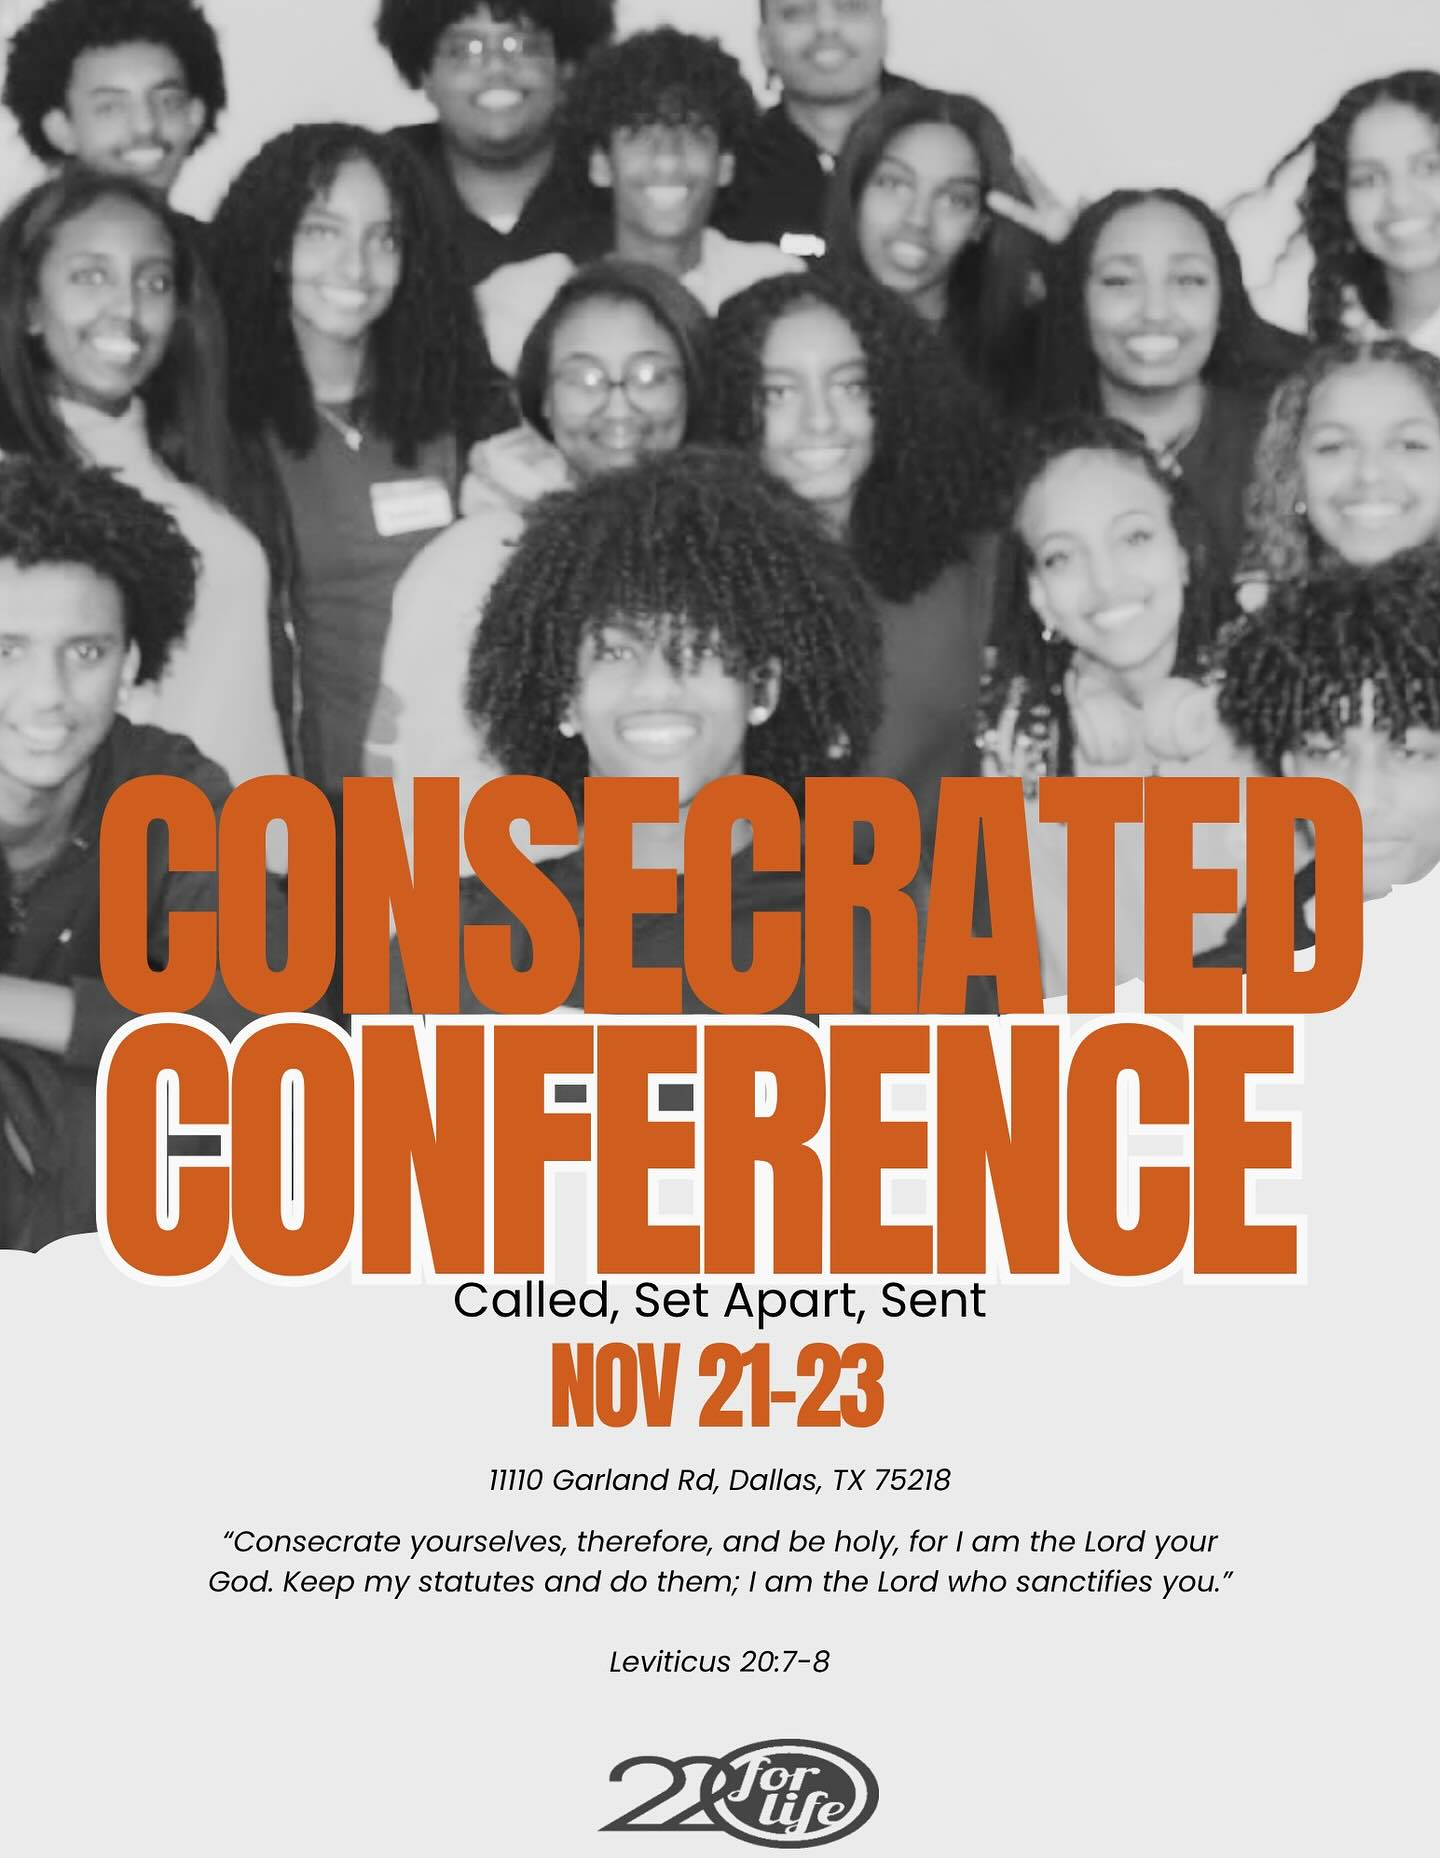
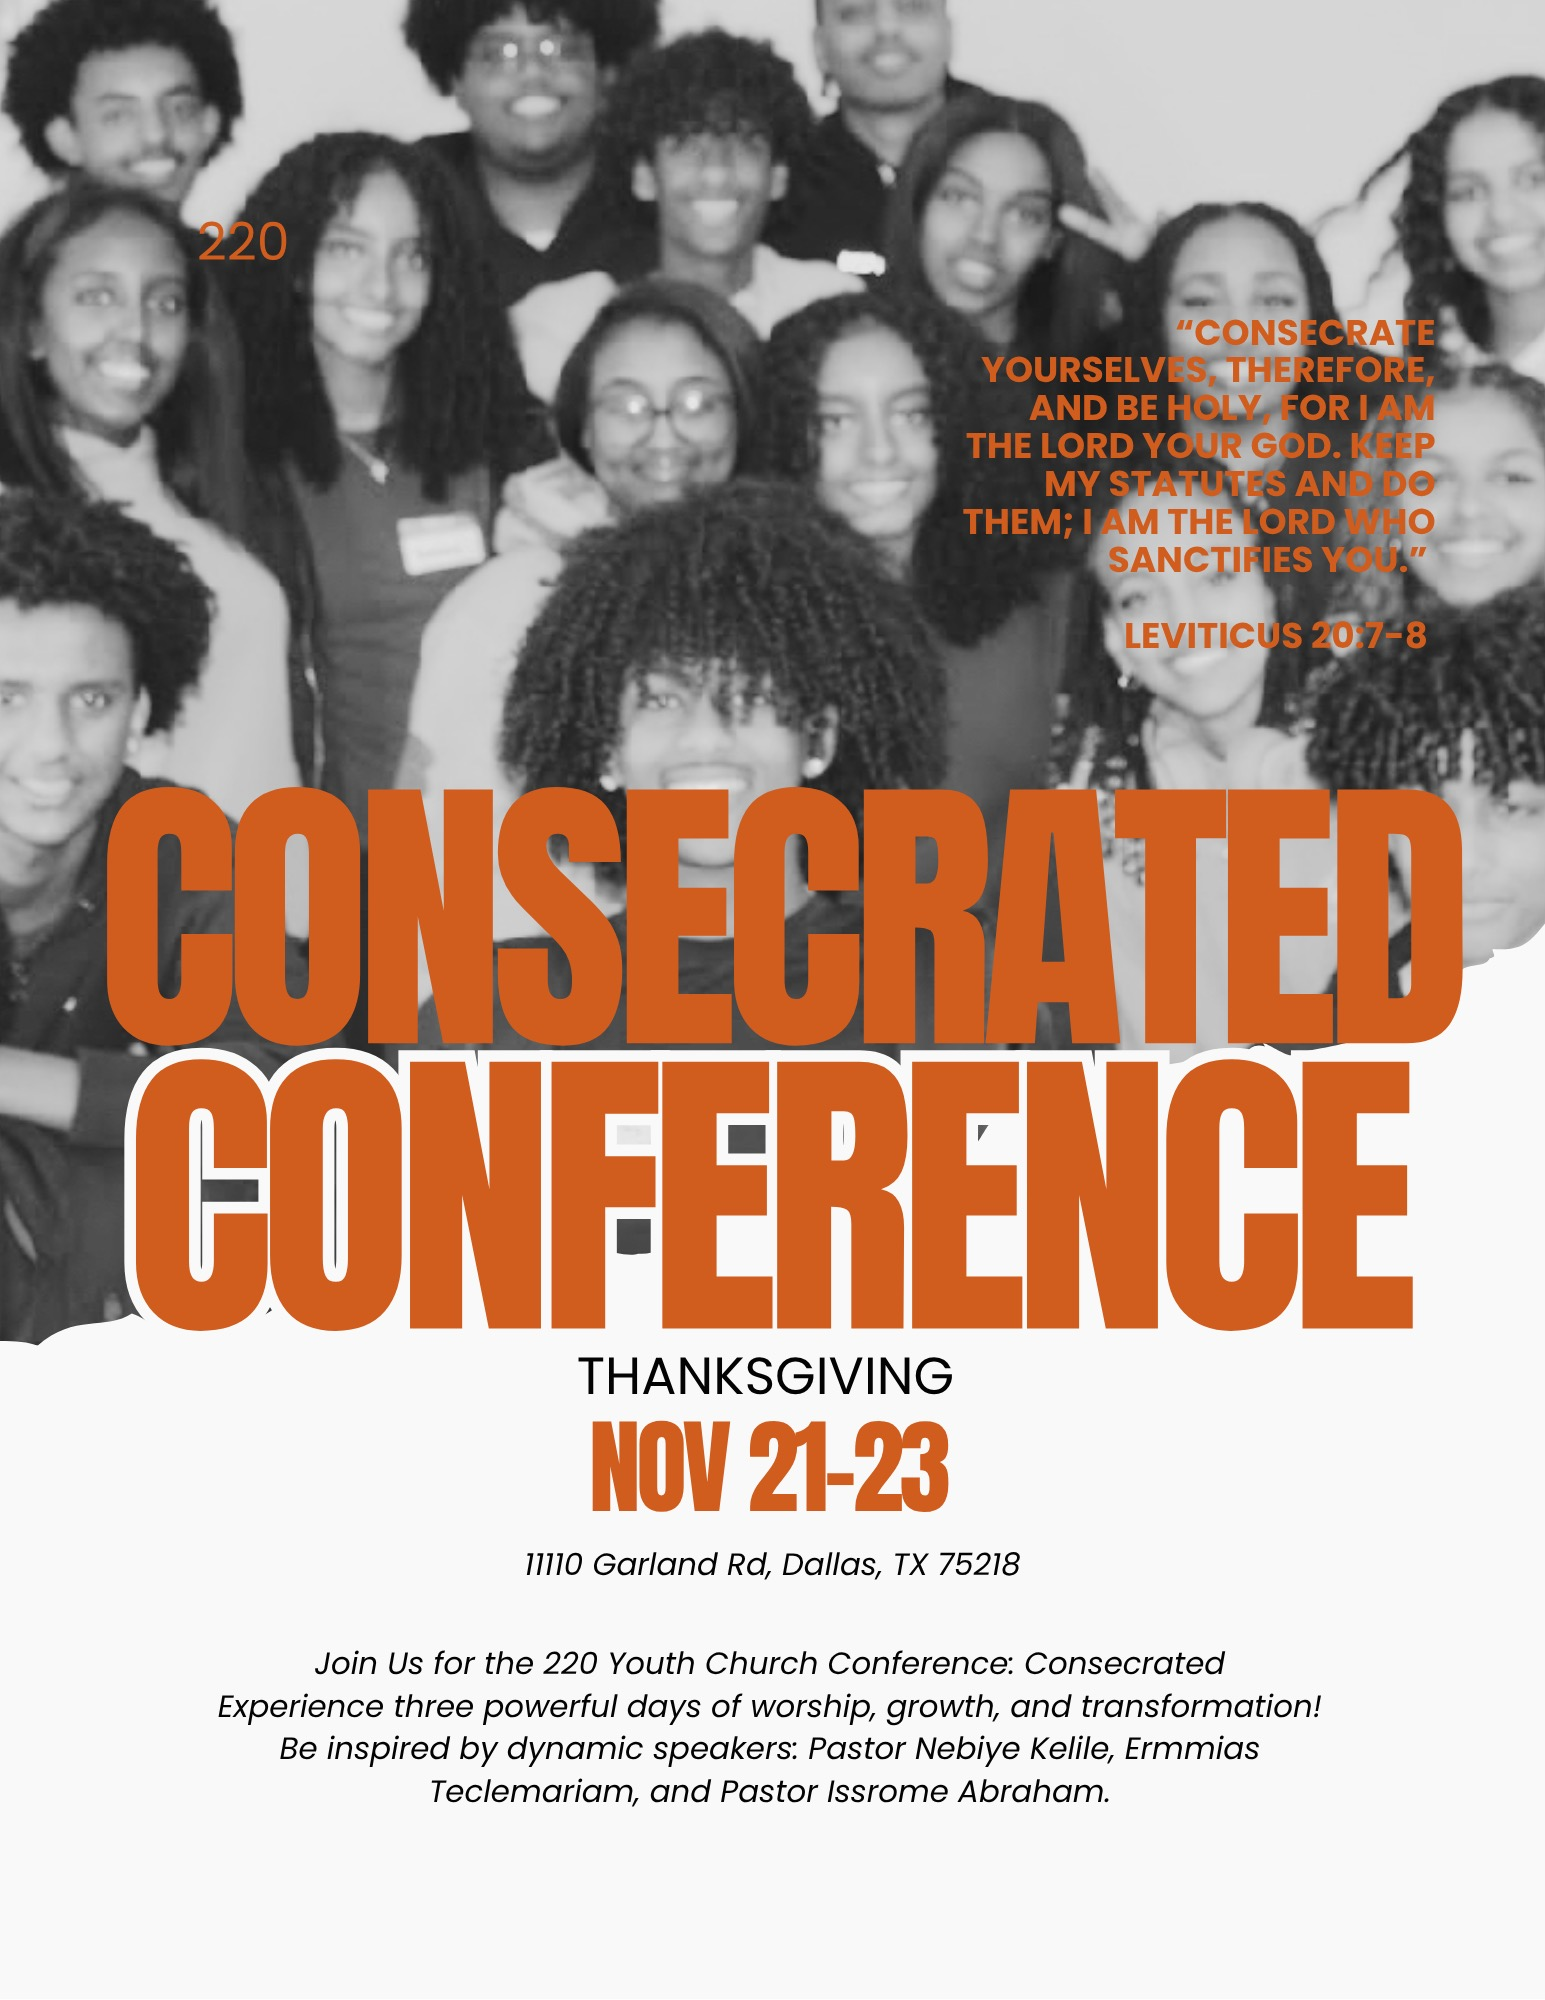
add event flyers and details for Spring Break Conference, Basketball Tournament, and Consecrated Conference

diff --git a/client/src/data/events.js b/client/src/data/events.js
@@ -36,11 +36,53 @@ export const events = [
     startTime: "Feb 17 1:00 PM",
     endTime: "Feb 18 10:00 AM",
     location: "220 Church Sanctuary",
-    category: "Youth",
+    category: "Conference",
     recurring: false,
     isVideo: true,
     mediaPath: "/events/girls_conference/girls_conference.mp4"
   },
+  {
+    id: 4,
+    title: "Spring Break Conference",
+    description: "📣 Spring Break is almost here!! Join our conference “ARISE” March 14-16, and don’t forget to bring a friend! You don’t want to miss this!! Service will be in the Chapel (the adult service room) and on Sunday it will be in the 220 room.",
+    detailedDescription: "<h1>Spring Break Conference</h1><p>📣 Spring Break is almost here!! Join our conference “ARISE” March 14-16, and don’t forget to bring a friend! You don’t want to miss this!! Service will be in the Chapel (the adult service room) and on Sunday it will be in the 220 room.</p>",
+    date: "March 14-16, 2025",
+    startTime: "Mar 14 7:00 PM",
+    endTime: "Mar 16 10:00 AM",
+    location: "220 Church Sanctuary",
+    category: "Conference",
+    recurring: false,
+    isVideo: false,
+    mediaPath: "/events/spring_conference_2025/flyer.jpg"
+  },
+  {
+    id: 5,
+    title: "Basketball Tournament",
+    description: "PHASE ONE OF SATURDAY’S ACTIVITIES IS OUT. BE SURE TO FILL OUT THE FORM. WE GOT SO MUCH PLANNED! WE CANT WAIT TO SEE ALL OF YALL HERE. DON’T FORGET TO INVITE YOUR FRIENDS!!!!",
+    detailedDescription: "<h1>Basketball Tournament</h1><p>PHASE ONE OF SATURDAY’S ACTIVITIES IS OUT. BE SURE TO FILL OUT THE FORM. WE GOT SO MUCH PLANNED! WE CANT WAIT TO SEE ALL OF YALL HERE. DON’T FORGET TO INVITE YOUR FRIENDS!!!!</p>",
+    date: "March 15, 2025",
+    startTime: "Mar 15 4:00 PM",
+    endTime: "Mar 15 8:00 PM",
+    location: "11110 Garland Rd, Dallas, TX 75218",
+    category: "Recreation",
+    recurring: false,
+    isVideo: false,
+    mediaPath: "/events/basketball_tournament/flyer.jpg"
+  },
+  {
+    id: 6,
+    title: "Consecrated Conference",
+    description: "Join 220’s Young Adult Thanksgiving Conference……Consecrated!!!!! Experience three powerful days of worship, growth, and transformation! Be inspired by dynamic speakers: Pastor Nebiye Kelile, Ermmias Teclemariam, and Pastor Issrome Abraham.",
+    detailedDescription: "<h1>Consecrated Conference</h1><p>Join 220’s Young Adult Thanksgiving Conference……Consecrated!!!!! Experience three powerful days of worship, growth, and transformation! Be inspired by dynamic speakers: Pastor Nebiye Kelile, Ermmias Teclemariam, and Pastor Issrome Abraham.</p>",
+    date: "November 20-22, 2025",
+    startTime: "Nov 20 7:00 PM",
+    endTime: "Nov 22 10:00 AM",
+    location: "220 Church Sanctuary",
+    category: "Conference",
+    recurring: false,
+    isVideo: false,
+    mediaPath: "/events/consecrated_2025/flyer.jpg"
+  }
 ]
 
 const weekdayMap = {
